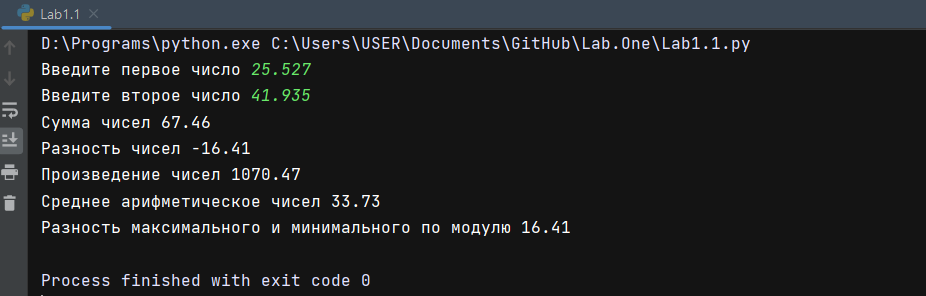
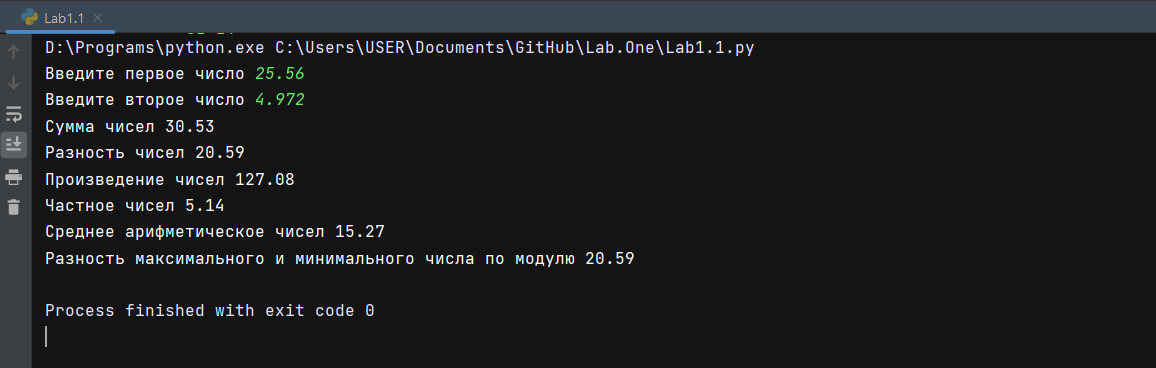
Добавлена функция нахождения частного
В Lab1.1 добавлена функция нахождения частного, подправлен Readme.md файл, заменен скриншот.

Changed region(s): [[0.0, 0.0, 1.0, 1.0]]

diff --git a/Lab1.1.py b/Lab1.1.py
@@ -8,5 +8,6 @@ min_abs = min(a,b , key=abs)
 print("Сумма чисел", round(a+b,2))
 print("Разность чисел", round(a-b,2))
 print("Произведение чисел", round(a*b,2))
+print("Частное чисел",round((a/b),2))
 print("Среднее арифметическое чисел", round((a+b)/2 ,2))
-print("Разность максимального и минимального по модулю", round(abs(max_abs) - abs(min_abs),2))
+print("Разность максимального и минимального числа по модулю", round(abs(max_abs) - abs(min_abs),2))

diff --git a/README.md b/README.md
@@ -14,18 +14,18 @@ ___
  Данный репозиторий содержит две программы: 
 
 1. Lab1.1.py: Выдаёт расчеты зависящие от двух переменных. 
-Пользователь вводит Значения переменных "a" и "b".
-После чего выдаёт ему: сумму, разность, произведение, среднее
+Пользователь вводит значения переменных "a" и "b".
+После чего выдаёт ему: сумму, разность, произведение, частное, среднее
 арифметическое, разность максимального и минимального по
 модулю этих чисел.
 2. Lab1.2.py: Запрашивает у пользователя: имя, возраст, 
 город и страну проживания, и праздновал ли он свой день 
 рождения. После чего сообщит ему об этом.
 
-Открыть Программы можно в любом IDE для Pyton но рекомендую 
+Открыть программы можно в любом IDE для Pyton, но рекомендую 
 PyCharm (т. к. сам им пользуюсь). Программа предстоит как открытый код.
 После открытия и запуска одного из выше перечисленных программ
-будет написанно что требуется от пользователя.
+будет написано что требуется от пользователя.
 
 ___
 # Скриншоты рабочего процесса
